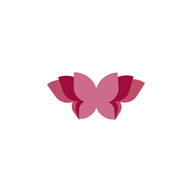
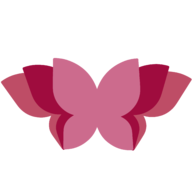
first page navbar

Changed region(s): [[0.0, 0.2812, 1.0, 0.8125], [0.4688, 0.4062, 0.5312, 0.4688]]

diff --git a/_sass/components/navbar.scss b/_sass/components/navbar.scss
@@ -1,0 +1,60 @@
+@import "variables";
+
+.navbar {
+  width: 100%;
+  padding: 20px;
+  display: flex;
+  flex-direction: column;
+  align-items: center;
+
+  &__mobile {
+    width: 100%;
+    display: flex;
+    align-items: center;
+    justify-content: space-between;
+
+    @include breakpoint("medium") { display: none }
+  }
+
+  &__logo {
+    width: 100%;
+    height: auto;
+    max-width: 150px;
+  }
+
+  &__content {
+    display: none;
+
+    align-items: center;
+    justify-content: space-between;
+
+    img { display: none }
+
+    @include breakpoint("medium") {
+      width: 100%;
+      text-align: initial;
+
+      img { display: initial }
+    }
+
+    @include breakpoint("medium") { display: flex }
+    @include breakpoint("limiter");
+  }
+
+  &__links {
+    margin: 0;
+    padding: 0;
+    list-style: none;
+    font-weight: bold;
+    text-align: center;
+
+    li { margin: 15px 0 }
+
+    @include breakpoint("medium") {
+      float: right;
+      width: fit-content;
+
+      li { display: inline; margin: 0 15px }
+    }
+  }
+}

diff --git a/index.html b/index.html
@@ -1,0 +1,22 @@
+---
+layout: default
+---
+
+<!-- Navbar -->
+<nav class="navbar">
+  <div class="navbar__mobile">
+    <a href="#"><img src="assets/images/logo-pink.png" alt="logo" class="navbar__logo"></a>
+    <a href="#" class="toggle-navbar"><img src="https://icongr.am/jam/align-right.svg?size=50&color=a00d3e" alt="menu"></a>
+  </div>
+
+  <div class="navbar__content">
+    <a href="#"><img class="navbar__logo" src="assets/images/logo-pink.png" alt=""></a>
+
+    <ul class="navbar__links">
+      <li><a class="color--dark-pink" href="index.html#about">Sobre nós</a></li>
+      <li><a class="color--dark-pink" href="servicos.html">Serviços</a></li>
+      <li><a class="color--dark-pink" href="index.html#footer">Nosso espaço</a></li>
+      <li><a class="color--dark-pink" href="portfolio.html" class="button button--light-gray">Contato</a></li>
+    </ul>
+  </div>
+</nav>

diff --git a/_layouts/default.html b/_layouts/default.html
@@ -4,10 +4,16 @@
   <meta charset="utf-8">
 
   <!-- Styles -->
-  <link rel="stylesheet" href="/assets/css/styles.css">
+  <link rel="stylesheet" href="assets/css/styles.css">
 
   <!-- Responsive meta tag -->
   <meta name="viewport" content="width=device-width, initial-scale=1">
+
+  <!-- Animations -->
+  <link rel="stylesheet" href="https://cdnjs.cloudflare.com/ajax/libs/animate.css/4.1.1/animate.min.css" />
+
+  <!-- Fonts -->
+  <link href="https://fonts.googleapis.com/css2?family=Raleway:wght@400;500;700&display=swap" rel="stylesheet">
 
   <!-- favicon -->
   <link rel="apple-touch-icon" sizes="57x57" href="assets/images/apple-icon-57x57.png">

diff --git a/assets/css/styles.scss b/assets/css/styles.scss
@@ -3,9 +3,11 @@
 // Color Variables, Breakpoints, utils and components
 @import "components/variables";
 @import "components/columns";
+@import "components/navbar";
 
 body {
   margin: 0;
+  font-family: 'Raleway', sans-serif;
 }
 
 a {
@@ -16,3 +18,5 @@ a {
   width: 100%;
   height: auto;
 }
+
+.color { @include colors("color") }

diff --git a/assets/javascripts/script.js b/assets/javascripts/script.js
@@ -1,0 +1,3 @@
+$(".toggle-navbar").click(function() {
+  $(".navbar__content").toggle();
+});
